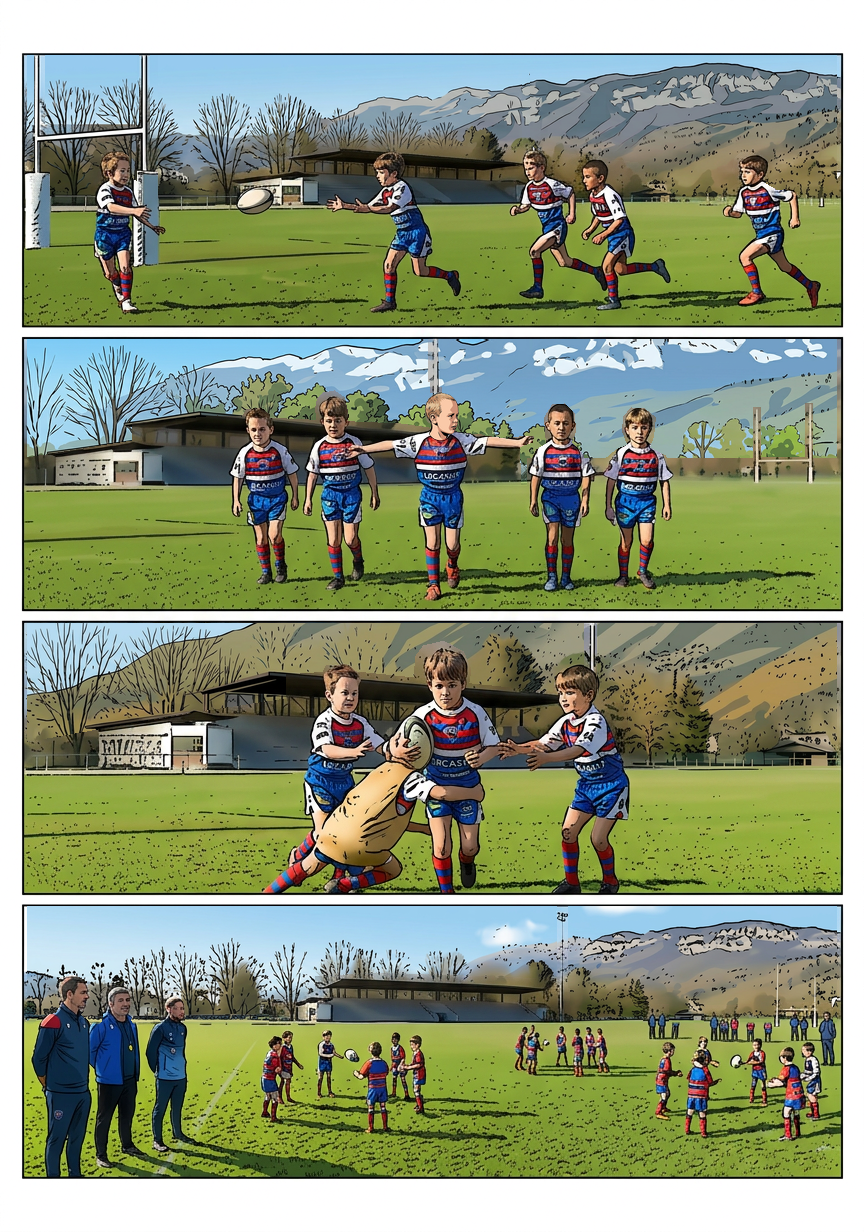
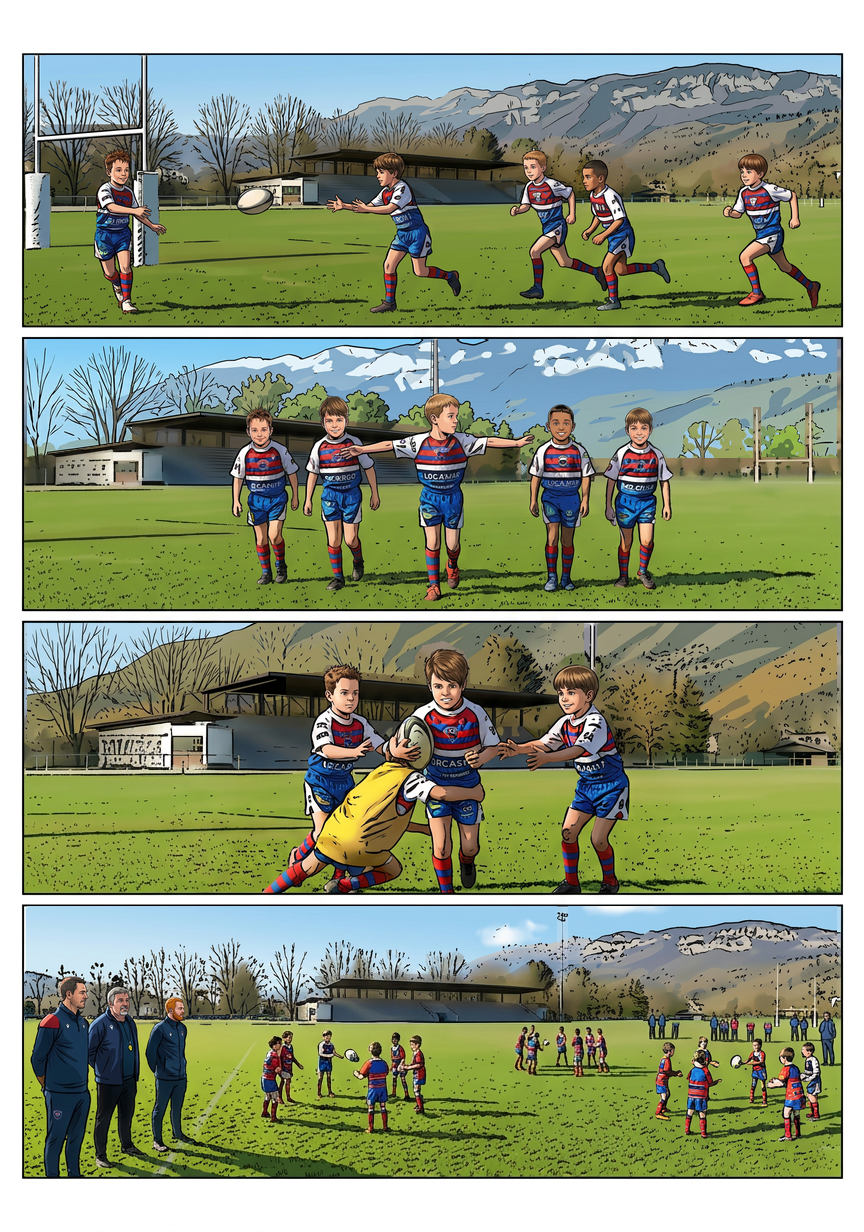
Reprendre les quatre bandes d'action de la planche 23

diff --git a/Planches-dessin/validation/REVUE-COUVERTURE.md b/Planches-dessin/validation/REVUE-COUVERTURE.md
@@ -21,13 +21,13 @@ Les huit recadrages exacts sont dans `revue-couverture/<Prénom>-couverture.png`
 |---|---:|
 | Planches vues en ensemble | 30 |
 | Vignettes réellement inventoriées | 153 |
-| Premières reprises intégrées, encore à relire | 115 |
+| Premières reprises intégrées, encore à relire | 119 |
 | Corrections seulement partielles, à poursuivre | 0 |
 | Contrôles sans retouche, encore à relire | 1 |
-| Autres vignettes restant à contrôler individuellement | 37 |
+| Autres vignettes restant à contrôler individuellement | 33 |
 | Validations définitives de style et ressemblance | **0** |
 
-Les 115 vignettes ayant reçu une intervention ne sont pas 115 vignettes définitivement conformes. Le reste de la revue demandée n’est pas terminé. Le manifeste `REVUE-COUVERTURE.json` conserve une entrée et un état explicite pour chacune des 153 vignettes.
+Les 119 vignettes ayant reçu une intervention ne sont pas 119 vignettes définitivement conformes. Le reste de la revue demandée n’est pas terminé. Le manifeste `REVUE-COUVERTURE.json` conserve une entrée et un état explicite pour chacune des 153 vignettes.
 
 ## Première livraison : 26/3 et 26/6
 
@@ -448,6 +448,24 @@ Preuves : `revue-couverture/lot-z/22-AVANT-APRES.jpg` et cinq masques des intér
 **Réserves de relecture transversale :** harmonisation fine des visages de face dans 22/1 et 22/5 (notamment la micro-frange frontale de Nolann par rapport à sa coupe très courte actuelle et l'homogénéité des traits avec la couverture), nettoyage de quelques manches sombres résiduelles sur de petites silhouettes d'arrière-plan dans 22/1 et 22/2, et cohérence des écussons/inscriptions de maillots (`LOCASELF` déformé par la génération).
 
 **Bilan courant : 115 premières reprises, 0 correction partielle, 1 contrôle sans retouche, 37 vignettes encore à examiner individuellement ; 0 validation définitive sur 153. Prochaine planche : 23.** Aucune bulle ni texte ajouté.
+
+## Vingt-cinquième livraison : les quatre bandes de la planche 23
+
+Contrôle des quatre bandes horizontales (« Les Trois Piliers du Jeu ») avec la couverture comme unique référence de style et d'identités, en utilisant des sous-recadrages pleine hauteur (ratios natifs 16:9 et 5:4) afin d'éviter tout écrasement vertical des personnages.
+
+**23/1 :** Bande 1 (L'Art de la Passe) : reprise intégrale des cinq garçons en séquence de passe de gauche à droite (Léon venant de passer près des poteaux, ballon en vol vers Lyssandro mains en W, puis Ayden aux cheveux châtain clair, Nolann au teint mat et Milo en soutien) dans le style de la couverture.
+
+**23/2 :** Bande 2 (La Défense en Ligne) : reprise des cinq garçons montant de front (Léon, Lyssandro, Ayden au centre bras écartés avec sa chevelure châtain clair rétablie, Nolann au teint mat, Milo à droite) et nettoyage des taches blanches de postérisation sur la crête montagneuse.
+
+**23/3 :** Bande 3 (Le Soutien Offensif et le Plaquage) : reprise de Lyssandro ballon en mains plaqué bas par le partenaire en chasuble jaune (dont la tête est désormais distincte sous le ballon), entouré de Léon à gauche et Milo à droite surgissant au soutien ; nettoyage des griffonnages parasites sur le mur blanc du club-house.
+
+**23/4 :** Bande 4 (Le Regard des Coachs) : reprise de Flavien, Julien (veste ramenée du bleu roi au bleu marine canonique avec sifflet jaune) et Kilian (haut ramené du bleu ciel au bleu marine canonique) sur la touche à gauche, ainsi que des groupes d'entraînement au premier plan à droite, en conservant les éducateurs d'arrière-plan.
+
+Preuves : `revue-couverture/lot-aa/23-AVANT-APRES.jpg` et quatre masques des intérieurs de bandes. Cadres et gouttières hors masques intégralement préservés.
+
+**Réserves de relecture transversale :** harmonisation fine des visages à petite échelle dans 23/1 et 23/2, lisibilité de la tête du plaqueur en chasuble jaune sous le ballon dans 23/3, et homogénéité du fond postérisé hors zones d'acteurs (nuages sur la crête de 23/2, petites silhouettes d'ateliers au second plan de 23/4).
+
+**Bilan courant : 119 premières reprises, 0 correction partielle, 1 contrôle sans retouche, 33 vignettes encore à examiner individuellement ; 0 validation définitive sur 153. Prochaine planche : 24.** Aucune bulle ni texte ajouté.
 
 ## Contrôles techniques et audits historiques
 

diff --git a/Planches-dessin/SUIVI-STYLE.md b/Planches-dessin/SUIVI-STYLE.md
@@ -2,7 +2,7 @@
 
 **La couverture `00-couverture-marvel.png` est désormais la seule référence de style et d’identité.** La décision utilisateur remplace la priorité V2 décrite dans l’historique ci-dessous. La couverture reste inchangée.
 
-Suivi actuel : [`validation/REVUE-COUVERTURE.md`](validation/REVUE-COUVERTURE.md) et son manifeste JSON : 153 vignettes inventoriées, 115 premières reprises, 1 contrôle sans retouche, 0 correction partielle, 37 autres contrôles individuels à faire, aucune validation définitive. Les anciennes approbations ne valent pas conformité au nouveau référentiel. La prise de 18/4 est reprise au lot U ; les raccords de 19/1 sont nettoyés au lot W, puis les cinq cases de 20 reprises au lot X. Planche 21 reprise au lot Y : souvenir mental de Flavien, gestes de réconciliation, visage clair d’Ayden isolé pour éviter sa confusion avec Nolann mat, et geste de Julien sur l’épaule de Flavien. Planche 22 reprise au lot Z : retour du printemps en manches courtes (suppression des sous-pulls d’hiver de 22-1), vestes marine des coachs (22-2 et 22-4), prise de parole de Léon/Lyssandro/Nolann (22-3) et clin d’œil complice de Milo (22-5). Prochaine planche : 23. Réserves transversales sur contacts de plaquage, âge/traits sous bonnets et conformité des motifs/écussons/sponsors des tenues. Aucune bulle ni texte de dialogue ajouté.
+Suivi actuel : [`validation/REVUE-COUVERTURE.md`](validation/REVUE-COUVERTURE.md) et son manifeste JSON : 153 vignettes inventoriées, 119 premières reprises, 1 contrôle sans retouche, 0 correction partielle, 33 autres contrôles individuels à faire, aucune validation définitive. Les anciennes approbations ne valent pas conformité au nouveau référentiel. La prise de 18/4 est reprise au lot U ; les raccords de 19/1 sont nettoyés au lot W, puis les cinq cases de 20 reprises au lot X. Planche 21 reprise au lot Y : souvenir mental de Flavien, gestes de réconciliation, visage clair d’Ayden isolé pour éviter sa confusion avec Nolann mat, et geste de Julien sur l’épaule de Flavien. Planche 22 reprise au lot Z : retour du printemps en manches courtes (suppression des sous-pulls d’hiver de 22-1), vestes marine des coachs (22-2 et 22-4), prise de parole de Léon/Lyssandro/Nolann (22-3) et clin d’œil complice de Milo (22-5). Planche 23 reprise au lot AA : quatre bandes horizontales (passe en ligne, défense alignée autour d’Ayden, plaquage bas et soutien autour de Lyssandro, regard de Flavien/Julien/Kilian en tenues marine). Prochaine planche : 24. Réserves transversales sur contacts de plaquage, âge/traits sous bonnets et conformité des motifs/écussons/sponsors des tenues. Aucune bulle ni texte de dialogue ajouté.
 
 ---
 
